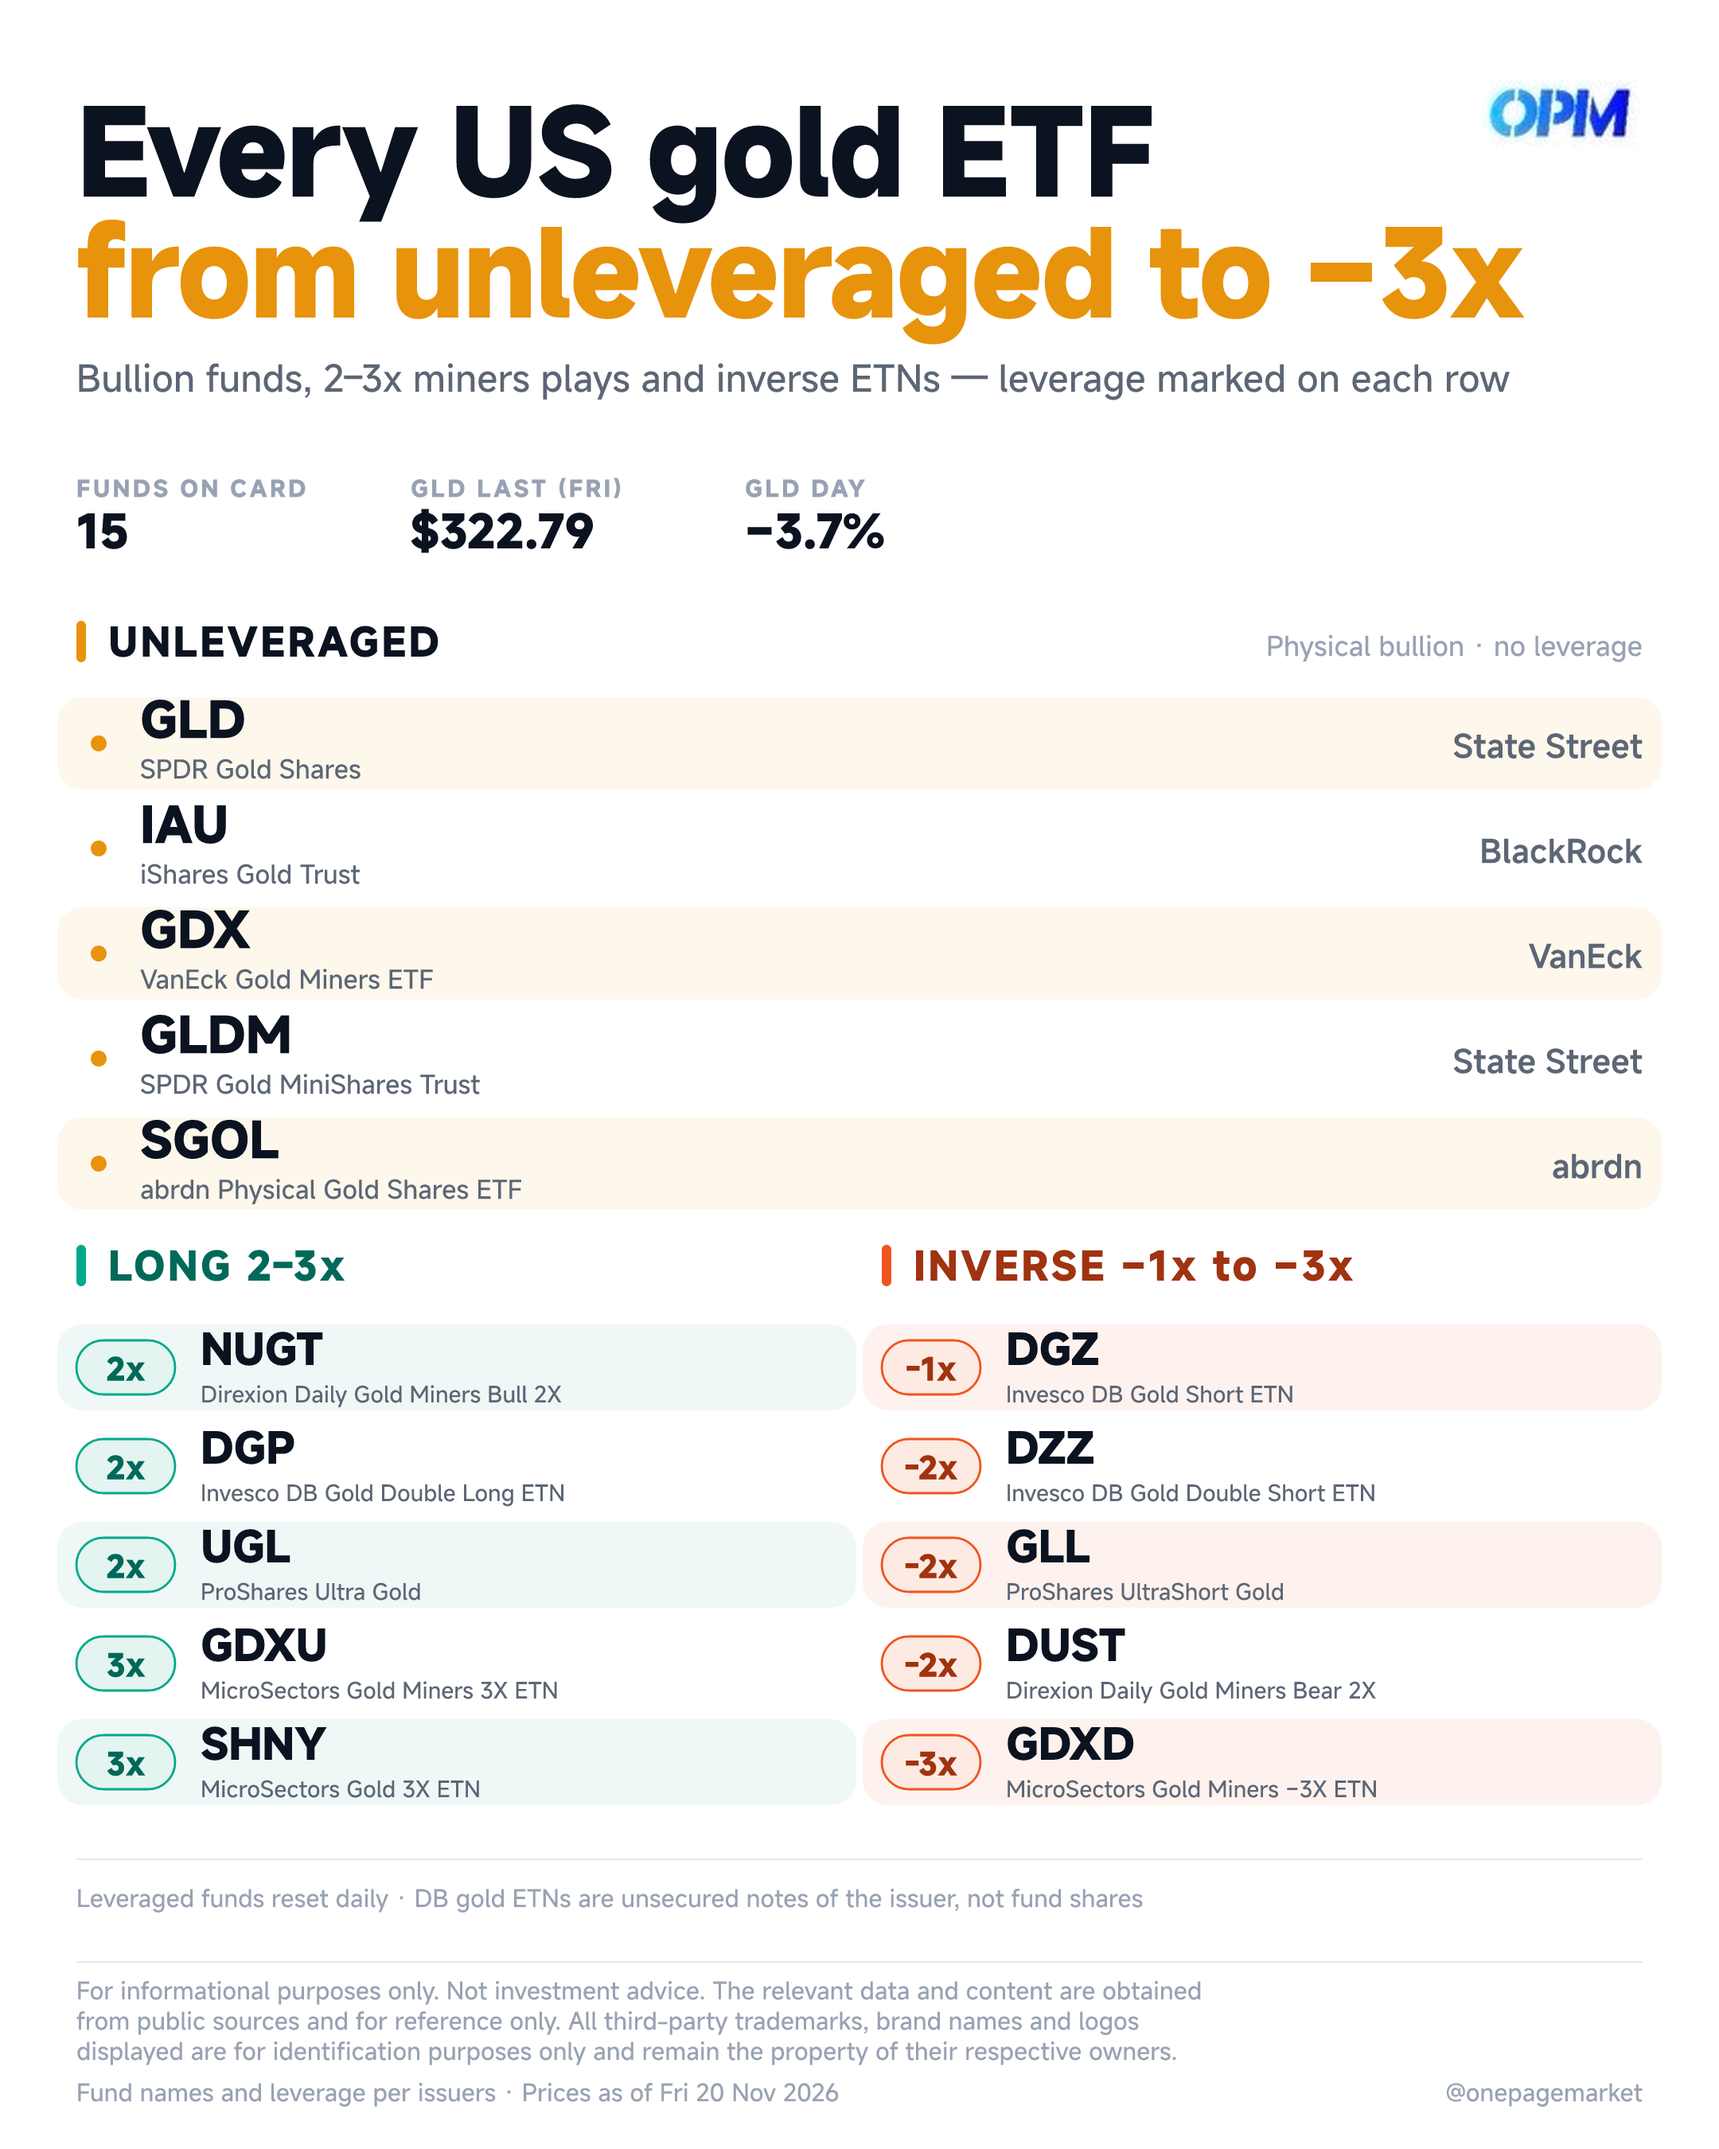
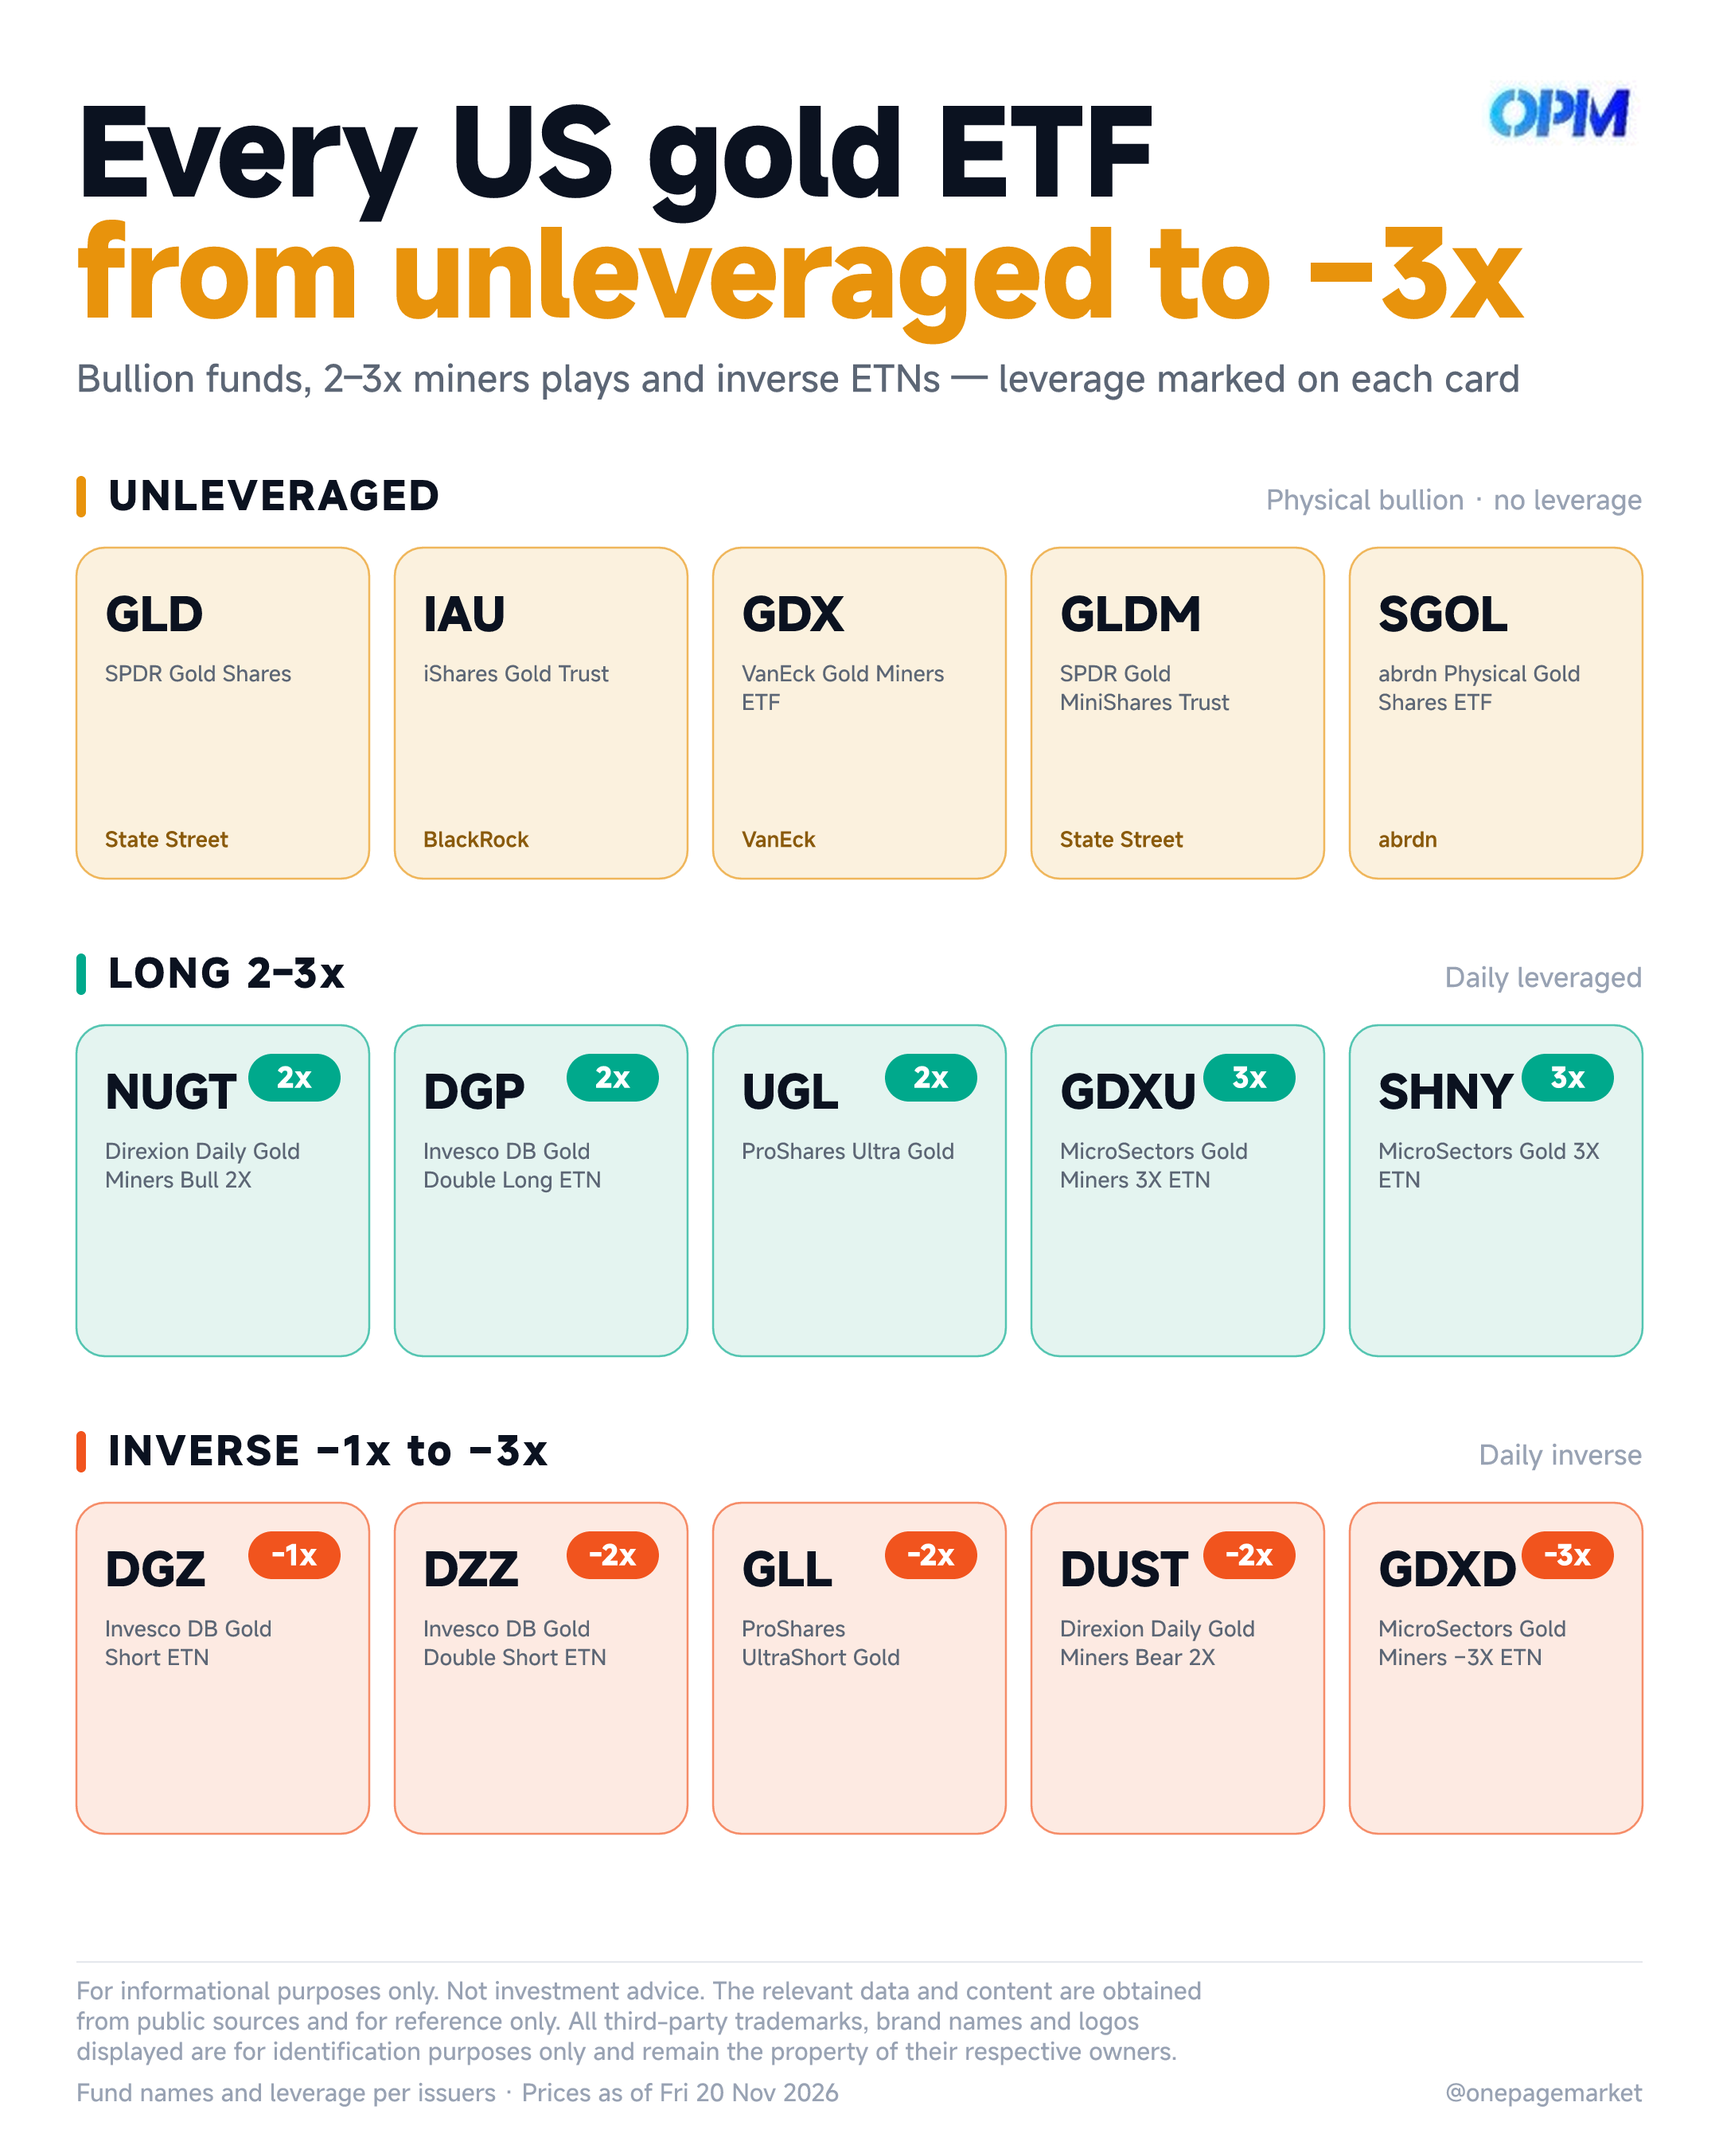
card: Every US Gold ETF (card-wall layout)

diff --git a/scripts/build_gold_etfs.js b/scripts/build_gold_etfs.js
@@ -2,9 +2,9 @@
  * OPM 專題卡：Every US Gold ETF（黃金 ETF 全景清單，改自阿澤提供的富途牛牛參考圖）
  *
  * 需求（2026-11-22 阿澤）：富途黃金 ETF 圖改成 OPM 格式；**去掉「是否支援期權交易」欄**；標題自擬。
- * 結構照參考圖：無槓桿 ETF（5 檔）＋ 槓桿/反向（多頭 5 檔、反向 5 檔），不設期權欄。
+ * 二改（2026-11-22 阿澤「不要擅自添加模組」）：去掉副標下 3 格事實模組與底部注記，
+ *   **改為卡片牆**——15 檔 ETF 每檔一張小卡，三行（無槓桿 / 多頭 / 反向），倍數徽章在卡上。
  * 名稱與倍數已核實：SEC FWP 官方文件（DGP/DGZ/DZZ）、發行商官網慣用名（其餘）。
- * GLD 報價 Nasdaq API（2026-11-20 收市 $322.79 / −3.70%）。
  *
  * 用法：
  *   NODE_PATH=./node_modules node scripts/build_gold_etfs.js
@@ -23,7 +23,7 @@ const FONT = 'MiSans';
 const C = {
   bg: '#FFFFFF', ink: '#0B1220', gray: '#5C6675', dim: '#98A2B3',
   line: '#E4E7EC',
-  amber: '#E8930C', amberTint: '#FBF0DC',
+  amber: '#E8930C', amberTint: '#FBF1DE',
   teal: '#00A98C', tealTint: '#E4F4F0', tealInk: '#00695A',
   orange: '#F1541E', orangeTint: '#FDEAE2', orangeInk: '#A03310',
 };
@@ -40,6 +40,19 @@ const approx = (s, sz) => [...s].reduce((a, ch) =>
 const fitTitle = (s, base, maxW) => Math.min(base, Math.floor(base * maxW / approx(s, base)));
 function t(x, y, s, { size = 24, weight = 400, fill = C.ink, anchor = 'start', ls = 0 } = {}) {
   return `<text x="${x}" y="${y}" font-family="${FONT}" font-size="${size}" font-weight="${weight}" fill="${fill}" text-anchor="${anchor}" letter-spacing="${ls}">${esc(s)}</text>`;
+}
+/* 按實測寬度折行（卡片牆名稱用） */
+function wrap(s, size, maxW) {
+  const words = String(s).split(' ');
+  const lines = [];
+  let cur = '';
+  for (const w of words) {
+    const cand = cur ? cur + ' ' + w : w;
+    if (approx(cand, size) <= maxW || !cur) cur = cand;
+    else { lines.push(cur); cur = w; }
+  }
+  if (cur) lines.push(cur);
+  return lines;
 }
 
 const H = 1350;
@@ -59,58 +72,50 @@ svg.push(t(M, 122, T1, { size: fitTitle(T1, 72, CW), weight: 700, fill: C.ink, l
 svg.push(t(M, 198, T2, { size: fitTitle(T2, 72, CW), weight: 700, fill: C.amber, ls: -1.2 }));
 svg.push(t(M, 246, D.subtitle, { size: 23, fill: C.gray }));
 
-/* 事實三格（標題下，填留白） */
-D.facts.forEach((f, i) => {
-  const fx = M + i * 210;
-  svg.push(t(fx, 312, f.label, { size: 14, weight: 700, fill: C.dim, ls: 1.5 }));
-  svg.push(t(fx, 344, f.value, { size: 28, weight: 700, fill: C.ink }));
-});
+/* ---------- 卡片牆 ---------- */
+const CARD_H = 208, GAP = 16, PAD = 18;
+const CARD_W = (CW - GAP * 4) / 5;
 
-/* ---------- Section 1: UNLEVERAGED ---------- */
-let y = 412;
-svg.push(`<rect x="${M}" y="${y - 22}" width="6" height="26" rx="3" fill="${C.amber}"/>`);
-svg.push(t(M + 20, y, 'UNLEVERAGED', { size: 24, weight: 700, fill: C.ink, ls: 1.5 }));
-svg.push(t(W - M, y, 'Physical bullion · no leverage', { size: 17, fill: C.dim, anchor: 'end' }));
+/* 分區分隔條：色條＋標籤＋右側低調說明 */
+function divider(y, label, color, hint) {
+  svg.push(`<rect x="${M}" y="${y - 21}" width="6" height="26" rx="3" fill="${color}"/>`);
+  svg.push(t(M + 20, y, label, { size: 24, weight: 700, fill: C.ink, ls: 1.5 }));
+  svg.push(t(W - M, y, hint, { size: 17, fill: C.dim, anchor: 'end' }));
+}
 
-y += 22;
-const uRowH = 66;
-D.unleveraged.forEach((r, i) => {
-  const cy = y + uRowH * i + uRowH / 2;
-  if (i % 2 === 0) svg.push(`<rect x="${M - 12}" y="${cy - uRowH / 2 + 4}" width="${CW + 24}" height="${uRowH - 8}" rx="16" fill="${C.amberTint}" opacity="0.55"/>`);
-  svg.push(`<circle cx="${M + 14}" cy="${cy}" r="5" fill="${C.amber}"/>`);
-  svg.push(t(M + 40, cy - 4, r.ticker, { size: 30, weight: 700, fill: C.ink, ls: -0.3 }));
-  svg.push(t(M + 40, cy + 22, r.name, { size: 16, fill: C.gray }));
-  svg.push(t(W - M, cy + 9, r.issuer, { size: 20, weight: 500, fill: C.gray, anchor: 'end' }));
-});
-y += uRowH * D.unleveraged.length + 40;
+/* 一張 ETF 卡 */
+function etfCard(x, y, r, colors, lev) {
+  const iw = CARD_W - PAD * 2;
+  svg.push(`<rect x="${x}" y="${y}" width="${CARD_W}" height="${CARD_H}" rx="18" fill="${colors.tint}"/>`);
+  svg.push(`<rect x="${x}" y="${y}" width="${CARD_W}" height="${CARD_H}" rx="18" fill="none" stroke="${colors.main}" stroke-width="1.3" opacity="0.65"/>`);
+  if (lev) {   /* 倍數徽章（右上角，實色） */
+    svg.push(`<rect x="${x + CARD_W - PAD - 58}" y="${y + PAD}" width="58" height="30" rx="15" fill="${colors.main}"/>`);
+    svg.push(t(x + CARD_W - PAD - 29, y + PAD + 21, r.lev, { size: 17, weight: 700, fill: '#FFFFFF', anchor: 'middle' }));
+  }
+  svg.push(t(x + PAD, y + PAD + 34, r.ticker, { size: 28, weight: 700, fill: C.ink, ls: -0.3 }));
+  const lines = wrap(r.name, 13.5, iw);
+  lines.forEach((ln, i) => {
+    svg.push(t(x + PAD, y + PAD + 66 + i * 18, ln, { size: 13.5, fill: C.gray }));
+  });
+  if (r.issuer) svg.push(t(x + PAD, y + CARD_H - 20, r.issuer, { size: 13, weight: 500, fill: colors.deep }));
+}
 
-/* ---------- Section 2: LEVERAGED & INVERSE（雙欄） ---------- */
-const COLW = (CW - 28) / 2, LX = M, RXc = M + COLW + 28;
-svg.push(`<rect x="${LX}" y="${y - 22}" width="6" height="26" rx="3" fill="${C.teal}"/>`);
-svg.push(t(LX + 20, y, 'LONG 2–3x', { size: 24, weight: 700, fill: C.tealInk, ls: 1.5 }));
-svg.push(`<rect x="${RXc}" y="${y - 22}" width="6" height="26" rx="3" fill="${C.orange}"/>`);
-svg.push(t(RXc + 20, y, 'INVERSE −1x to −3x', { size: 24, weight: 700, fill: C.orangeInk, ls: 1.5 }));
+const SECTIONS = [
+  { rows: D.unleveraged, div: 320, label: 'UNLEVERAGED', hint: 'Physical bullion · no leverage',
+    colors: { main: C.amber, deep: '#8A5A0B', tint: C.amberTint }, lev: false },
+  { rows: D.long, div: 620, label: 'LONG 2–3x', hint: 'Daily leveraged',
+    colors: { main: C.teal, deep: C.tealInk, tint: C.tealTint }, lev: true },
+  { rows: D.inverse, div: 920, label: 'INVERSE −1x to −3x', hint: 'Daily inverse',
+    colors: { main: C.orange, deep: C.orangeInk, tint: C.orangeTint }, lev: true },
+];
 
-y += 24;
-const lRowH = 62;
-const levRow = (x, r, i, colors) => {
-  const cy = y + lRowH * i + lRowH / 2;
-  if (i % 2 === 0) svg.push(`<rect x="${x - 12}" y="${cy - lRowH / 2 + 4}" width="${COLW + 24}" height="${lRowH - 8}" rx="16" fill="${colors.tint}" opacity="0.6"/>`);
-  /* 倍數徽章 */
-  const bw = 62;
-  svg.push(`<rect x="${x}" y="${cy - 17}" width="${bw}" height="34" rx="17" fill="${colors.tint}"/>`);
-  svg.push(`<rect x="${x}" y="${cy - 17}" width="${bw}" height="34" rx="17" fill="none" stroke="${colors.main}" stroke-width="1.4"/>`);
-  svg.push(t(x + bw / 2, cy + 8, r.lev, { size: 19, weight: 700, fill: colors.deep, anchor: 'middle' }));
-  svg.push(t(x + bw + 16, cy - 2, r.ticker, { size: 26, weight: 700, fill: C.ink, ls: -0.3 }));
-  svg.push(t(x + bw + 16, cy + 22, r.name, { size: 14, fill: C.gray }));
-};
-D.long.forEach((r, i) => levRow(LX, r, i, { main: C.teal, deep: C.tealInk, tint: C.tealTint }));
-D.inverse.forEach((r, i) => levRow(RXc, r, i, { main: C.orange, deep: C.orangeInk, tint: C.orangeTint }));
-y += lRowH * 5 + 30;
-
-/* 底部中性注記 */
-svg.push(`<line x1="${M}" y1="${y}" x2="${W - M}" y2="${y}" stroke="${C.line}" stroke-width="1"/>`);
-svg.push(t(M, y + 30, D.note, { size: 15, fill: C.dim }));
+for (const s of SECTIONS) {
+  divider(s.div, s.label, s.colors.main, s.hint);
+  const y0 = s.div + 24;
+  s.rows.forEach((r, i) => {
+    etfCard(M + i * (CARD_W + GAP), y0, r, s.colors, s.lev);
+  });
+}
 
 /* 頁腳 */
 const handle = '@onepagemarket';
